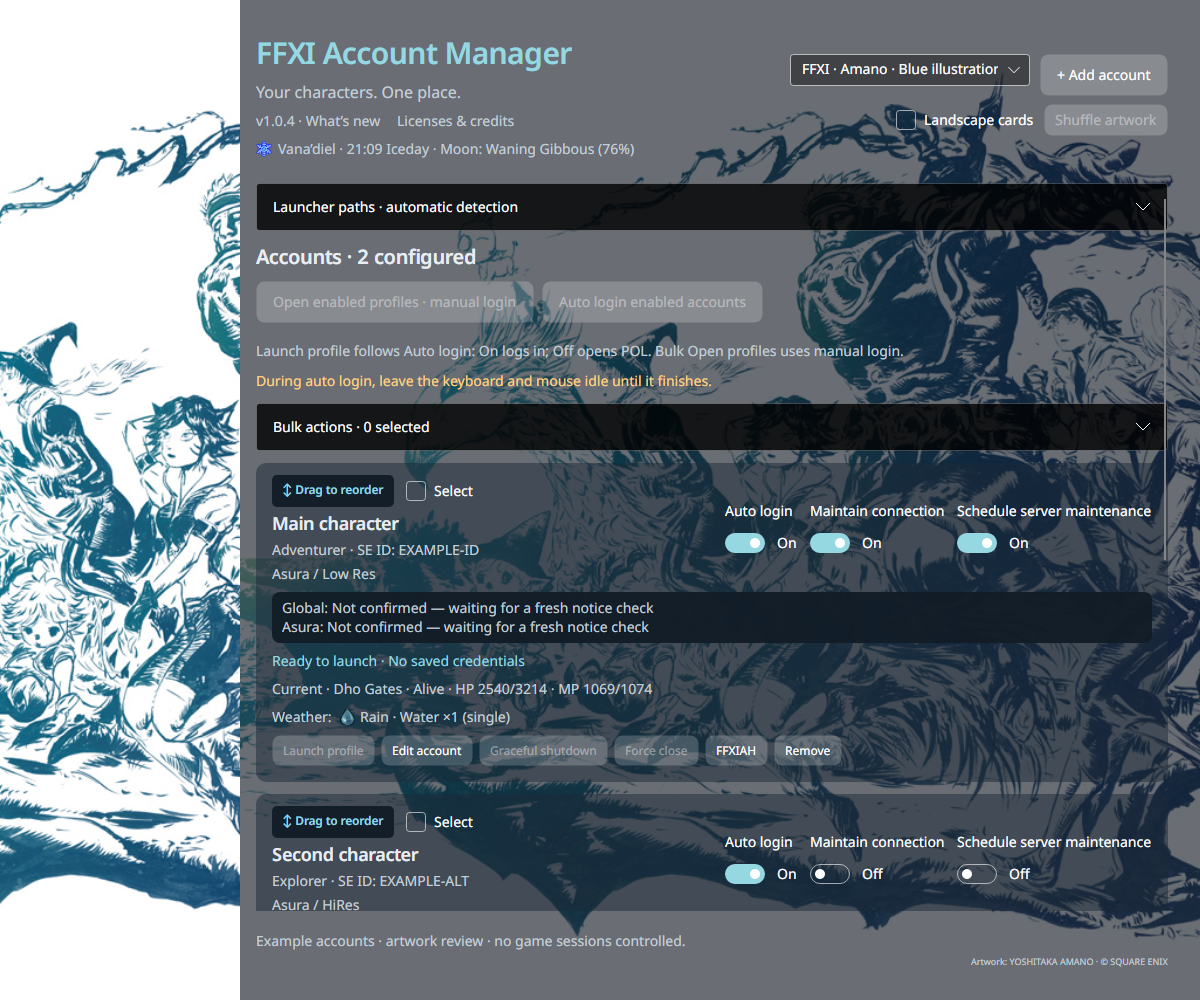
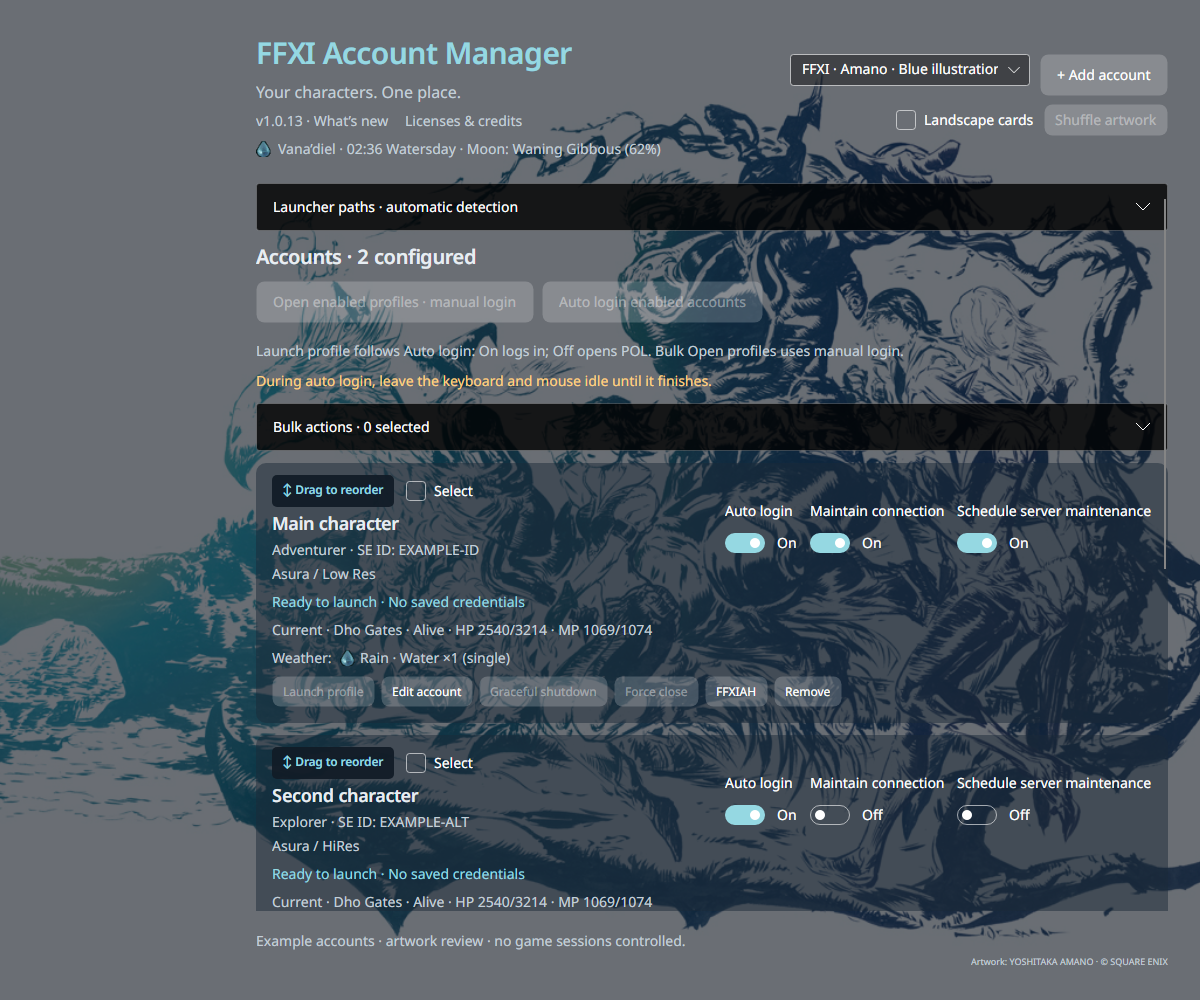
Join World Map, Zilart and Blue Illustration into continuous backgrounds

diff --git a/src/FFXILauncher.Desktop/ThemeCatalog.cs b/src/FFXILauncher.Desktop/ThemeCatalog.cs
@@ -5,7 +5,7 @@ using Avalonia.Styling;
 
 namespace FFXILauncher.Desktop;
 
-public sealed record AppTheme(string Id, string Name, string Background, string Surface, string Inset, string Text, string Muted, string Accent, bool Light = false, string? Artwork = null, bool Portrait = false, string? Credit = null, double SideFocus = .5, double BackgroundFocus = .5, string? SideArtwork = null, double BackgroundVerticalFocus = .5)
+public sealed record AppTheme(string Id, string Name, string Background, string Surface, string Inset, string Text, string Muted, string Accent, bool Light = false, string? Artwork = null, bool Portrait = false, string? Credit = null, double SideFocus = .5, double BackgroundFocus = .5, string? SideArtwork = null, double BackgroundVerticalFocus = .5, bool ContinuousArtwork = false)
 {
     public override string ToString() => Name;
 }
@@ -23,9 +23,9 @@ public static class ThemeCatalog
         new("eastern-adoulin", "FFXI · Eastern Adoulin", "#101820", "#E51B2937", "#F0111C27", "#E7EDF2", "#C3CFD8", "#97C9D6", Artwork: "EasternAdoulin.jpg", Portrait: false),
         new("ulbuka", "FFXI · East Ulbuka", "#101820", "#E51B2937", "#F0111C27", "#E7EDF2", "#C3CFD8", "#98CAB5", Artwork: "Ulbuka.jpg", Portrait: false),
         new("amano-aht", "FFXI · Treasures of Aht Urhgan", "#101820", "#E51B2937", "#F0111C27", "#E7EDF2", "#C3CFD8", "#D5C59D", Artwork: "Amano5.jpg", Portrait: true, Credit: "©2006 YOSHITAKA AMANO · © SQUARE ENIX"),
-        new("amano-blue", "FFXI · Amano · Blue illustration", "#101820", "#E51B2937", "#F0111C27", "#E7EDF2", "#C3CFD8", "#95D8E2", Artwork: "Amano13.jpg", Portrait: false, Credit: "Artwork: YOSHITAKA AMANO · © SQUARE ENIX"),
-        new("amano-map", "FFXI · Amano · World map", "#101820", "#E51B2937", "#F0111C27", "#E7EDF2", "#C3CFD8", "#DEBE76", Artwork: "Amano0.jpg", Portrait: false, Credit: "Artwork: YOSHITAKA AMANO · © SQUARE ENIX"),
-        new("amano-zilart", "FFXI · Amano · Zilart", "#101820", "#E51B2937", "#F0111C27", "#E7EDF2", "#C3CFD8", "#A1CDE8", Artwork: "Amano1.jpg", Portrait: false, Credit: "Artwork: YOSHITAKA AMANO · © SQUARE ENIX"),
+        new("amano-blue", "FFXI · Amano · Blue illustration", "#101820", "#E51B2937", "#F0111C27", "#E7EDF2", "#C3CFD8", "#95D8E2", Artwork: "Amano13.jpg", Portrait: false, Credit: "Artwork: YOSHITAKA AMANO · © SQUARE ENIX", BackgroundFocus: .62, ContinuousArtwork: true),
+        new("amano-map", "FFXI · Amano · World map", "#101820", "#E51B2937", "#F0111C27", "#E7EDF2", "#C3CFD8", "#DEBE76", Artwork: "WorldMapFull.jpg", Portrait: false, Credit: "Artwork: YOSHITAKA AMANO · © SQUARE ENIX", BackgroundFocus: .52, ContinuousArtwork: true),
+        new("amano-zilart", "FFXI · Amano · Zilart", "#101820", "#E51B2937", "#F0111C27", "#E7EDF2", "#C3CFD8", "#A1CDE8", Artwork: "ZilartFull.jpg", Portrait: false, Credit: "Artwork: YOSHITAKA AMANO · © SQUARE ENIX", BackgroundFocus: .52, ContinuousArtwork: true),
         new("arita-crystal", "FFXI · Arita · Crystal illustration", "#101820", "#E51B2937", "#F0111C27", "#E7EDF2", "#C3CFD8", "#9FD9D4", Artwork: "Arita0.jpg", Portrait: false),
         new("ffxi-original", "FFXI · Original FFXI", "#101820", "#E51B2937", "#F0111C27", "#E7EDF2", "#C3CFD8", "#8CD4E3", Artwork: "Illustration0.jpg", Portrait: true, SideArtwork: "Anniversary2.jpg", SideFocus: .40, Credit: "Artwork: JUN SUEMI / SQUARE ENIX · © SQUARE ENIX"),
         new("abyssea", "FFXI · Abyssea", "#101820", "#E51B2937", "#F0111C27", "#E7EDF2", "#C3CFD8", "#BDA5D9", Artwork: "Illustration6.jpg", Portrait: true, SideArtwork: "Maw.jpg", Credit: "Artwork: JUN SUEMI / SQUARE ENIX · © SQUARE ENIX"),

diff --git a/tests/FFXILauncher.Desktop.Smoke/Program.cs b/tests/FFXILauncher.Desktop.Smoke/Program.cs
@@ -440,6 +440,13 @@ foreach (var theme in ThemeCatalog.All)
     themePicker.SelectedItem = theme;
     Dispatcher.UIThread.RunJobs();
     if (theme.Artwork != null && (!configured.FindControl<Border>("PortraitFrame")!.IsVisible || configured.FindControl<Image>("PortraitArtwork")!.Source is not CroppedBitmap || configured.FindControl<Image>("BackgroundArtwork")!.Source is not CroppedBitmap)) throw new Exception("Every artwork theme needs aspect-preserving expanded crops.");
+    if (theme.ContinuousArtwork)
+    {
+        var leftCrop = (CroppedBitmap)configured.FindControl<Image>("PortraitArtwork")!.Source!;
+        var rightCrop = (CroppedBitmap)configured.FindControl<Image>("BackgroundArtwork")!.Source!;
+        if (!ReferenceEquals(leftCrop.Source, rightCrop.Source) || leftCrop.SourceRect.Right != rightCrop.SourceRect.X || leftCrop.SourceRect.Y != rightCrop.SourceRect.Y || leftCrop.SourceRect.Height != rightCrop.SourceRect.Height) throw new Exception("Continuous artwork panels must share one image and adjoining source rectangles.");
+        if (configured.FindControl<Image>("PortraitArtwork")!.Opacity != configured.FindControl<Image>("BackgroundArtwork")!.Opacity || !configured.FindControl<Border>("PortraitShade")!.IsVisible) throw new Exception("Continuous artwork must use matching brightness across the seam.");
+    }
     if (theme.SideArtwork != null)
     {
         var sideCrop = (CroppedBitmap)configured.FindControl<Image>("PortraitArtwork")!.Source!;
@@ -449,6 +456,20 @@ foreach (var theme in ThemeCatalog.All)
     if (new ConfigurationStore(directory).Load().Theme != theme.Id) throw new Exception("Selected theme did not persist.");
     if ((configured.FindControl<Image>("BackgroundArtwork")!.Source != null) != (theme.Artwork != null)) throw new Exception("Artwork theme did not load: " + theme.Id + " · " + configured.FindControl<TextBlock>("Activity")!.Text);
 }
+foreach (var id in new[] { "amano-map", "amano-zilart", "amano-blue" })
+{
+    themePicker.SelectedItem = ThemeCatalog.Resolve(id);
+    foreach (var width in new[] { 900d, 1050d, 1440d })
+    {
+        configured.Width = width;
+        Dispatcher.UIThread.RunJobs();
+        var left = configured.FindControl<Image>("PortraitArtwork")!.Source as CroppedBitmap;
+        var right = (CroppedBitmap)configured.FindControl<Image>("BackgroundArtwork")!.Source!;
+        if (width < 1050 ? left != null : left == null || left.SourceRect.Right != right.SourceRect.X) throw new Exception("Continuous artwork must remain joined through expanded and narrow layouts.");
+    }
+}
+configured.Width = 1120;
+Dispatcher.UIThread.RunJobs();
 themePicker.SelectedItem = ThemeCatalog.Resolve("abyssea");
 Dispatcher.UIThread.RunJobs();
 var savedArtwork = new ConfigurationStore(directory).Load().CharacterArtwork!;

diff --git a/src/FFXILauncher.Desktop/MainWindow.axaml.cs b/src/FFXILauncher.Desktop/MainWindow.axaml.cs
@@ -204,6 +204,8 @@ public sealed partial class MainWindow : Window
         BackgroundArtwork.Source = nextArtwork;
         PortraitArtwork.Source = nextArtwork;
         BackgroundArtwork.Opacity = .85;
+        PortraitArtwork.Opacity = theme.ContinuousArtwork ? .85 : 1;
+        PortraitShade.IsVisible = theme.ContinuousArtwork;
         themeArtwork?.Dispose();
         sideArtwork?.Dispose();
         sideArtwork = nextSideArtwork;
@@ -222,9 +224,28 @@ public sealed partial class MainWindow : Window
         MainContentGrid.Margin = new Thickness(portrait ? 256 : 32, 32, 32, 32);
         if (themeArtwork != null && Bounds.Height > 0)
         {
-            PortraitArtwork.Source = CropArtwork(sideArtwork ?? themeArtwork, 240 / Bounds.Height, theme.SideFocus);
-            BackgroundArtwork.Source = CropArtwork(themeArtwork, Math.Max(1, Bounds.Width - (portrait ? 240 : 0)) / Bounds.Height, theme.BackgroundFocus, theme.BackgroundVerticalFocus);
+            if (theme.ContinuousArtwork)
+                SetContinuousArtwork(themeArtwork, portrait ? 240 : 0, theme.BackgroundFocus, theme.BackgroundVerticalFocus);
+            else
+            {
+                PortraitArtwork.Source = CropArtwork(sideArtwork ?? themeArtwork, 240 / Bounds.Height, theme.SideFocus);
+                BackgroundArtwork.Source = CropArtwork(themeArtwork, Math.Max(1, Bounds.Width - (portrait ? 240 : 0)) / Bounds.Height, theme.BackgroundFocus, theme.BackgroundVerticalFocus);
+            }
         }
+    }
+    private void SetContinuousArtwork(Bitmap source, double sideWidth, double focus, double verticalFocus)
+    {
+        var size = source.PixelSize;
+        var ratio = Bounds.Width / Bounds.Height;
+        var width = Math.Min(size.Width, Math.Max(1, (int)Math.Round(size.Height * ratio)));
+        var height = Math.Min(size.Height, Math.Max(1, (int)Math.Round(size.Width / ratio)));
+        var split = (int)Math.Round(width * sideWidth / Bounds.Width);
+        // One viewport and shared scale. Center the subject in the main area,
+        // then divide the source into adjacent rectangles without repeating pixels.
+        var x = (int)Math.Clamp(size.Width * focus - (width + split) / 2d, 0, size.Width - width);
+        var y = (int)Math.Clamp(size.Height * verticalFocus - height / 2d, 0, size.Height - height);
+        PortraitArtwork.Source = split == 0 ? null : new CroppedBitmap { Source = source, SourceRect = new PixelRect(x, y, split, height) };
+        BackgroundArtwork.Source = new CroppedBitmap { Source = source, SourceRect = new PixelRect(x + split, y, width - split, height) };
     }
     private static CroppedBitmap CropArtwork(Bitmap source, double ratio, double focus, double verticalFocus = .5)
     {

diff --git a/README.md b/README.md
@@ -10,7 +10,9 @@ These screenshots show the actual application UI with example accounts and no sa
 
 ![Account dashboard with an FFXI artwork theme](docs/images/dashboard.png)
 
-Choose one of four dark UI themes or 12 artwork themes, including Abyssea. Expanded windows show a tall cropped art panel with a background behind the accounts; Amano · Autumn, Abyssea, Promyvion and Original FFXI pair two different images. Disable Landscape cards for more translucent account cards; enable it for prominent landscape images with minimal shading. Shuffle uses every image before repeating and avoids duplicate visible cards while enough images are available. Images keep their aspect ratio. Drag the handle on each card to reorder accounts. **Auto login** controls whether a character's Launch profile button completes login. **Maintain connection** enables recovery; **Schedule server maintenance** plans downtime around applicable notices.
+Choose one of four dark UI themes or 12 artwork themes, including Abyssea. Expanded windows show a tall cropped art panel with a background behind the accounts; Amano · Autumn, Abyssea, Promyvion, and Original FFXI pair two different images. Disable Landscape cards for more translucent account cards; enable it for prominent landscape images with minimal shading. Shuffle uses every image before repeating and avoids duplicate visible cards while enough images are available. Images keep their aspect ratio. Drag the handle on each card to reorder accounts. **Auto login** controls whether a character's Launch profile button completes login. **Maintain connection** enables recovery; **Schedule server maintenance** plans downtime around applicable notices.
+
+World Map, Zilart and Blue Illustration use a continuous panoramic background: the left panel reveals the adjoining artwork rather than repeating it.
 
 [See every theme at full size](docs/themes/README.md), including the narrow-window Abyssea view.
 

diff --git a/docs/themes/README.md b/docs/themes/README.md
@@ -1,6 +1,8 @@
-# Theme previews — v1.0.12
+# Theme previews — v1.0.13
 
-Actual application renders with example accounts. No real credentials or game sessions are used. Landscape cards are off to show the translucent surfaces. Expanded artwork views use aspect-preserving crops in the left panel and right background; Amano · Autumn, Abyssea, Promyvion and Original FFXI pair two distinct images.
+Actual application renders with example accounts. No real credentials or game sessions are used. Landscape cards are off to show the translucent surfaces. Expanded artwork views use aspect-preserving crops in the left panel and right background; Amano · Autumn, Abyssea, Promyvion, and Original FFXI pair two distinct images.
+
+World Map, Zilart and Blue Illustration use a continuous panoramic background: the left panel reveals the adjoining artwork rather than repeating it.
 
 ## Artwork themes
 

diff --git a/src/FFXILauncher.Desktop/Assets/Themes/SOURCES.md b/src/FFXILauncher.Desktop/Assets/Themes/SOURCES.md
@@ -1,6 +1,6 @@
 # Artwork sources
 
-Original unmodified artwork from Square Enix's WE ARE VANA'DIEL gallery.
+Original unmodified artwork from Square Enix's WE ARE VANA'DIEL gallery, plus the user-selected full map and Zilart images linked below.
 https://we-are-vanadiel.finalfantasyxi.com/gallery/
 
 URL root: https://we-are-vanadiel.finalfantasyxi.com/assets/images/gallery/season/
@@ -23,6 +23,9 @@ URL root: https://we-are-vanadiel.finalfantasyxi.com/assets/images/gallery/seaso
 | Anniversary2.jpg | 6/vol/1/2.jpg |
 | Illustration0.jpg | 2/vol/1/0.jpg |
 | Illustration6.jpg | 2/vol/1/6.jpg |
+
+WorldMapFull.jpg: https://www.espritduo.com/Amano/FF11/Vana'diel.jpg
+ZilartFull.jpg: https://www.espritduo.com/Amano/FF11/Rise%20of%20the%20Zilart%20Cover%20Art.jpg
 
 © SQUARE ENIX CO., LTD. All Rights Reserved.
 Amano5: Treasures of Aht Urhgan Artwork, ©2006 YOSHITAKA AMANO.

diff --git a/CHANGELOG.md b/CHANGELOG.md
@@ -1,5 +1,10 @@
 # Release notes
 
+## 1.0.13
+
+- World Map and Zilart now use the selected full artwork, centered on the female figure and chocobo rider in the main area.
+- World Map, Zilart and Blue Illustration now form one continuous image across the left panel and right background, with adjoining crops and matching shading through resizing.
+
 ## 1.0.12
 
 - Original FFXI now pairs the approved anniversary character illustration on the left with its original artwork on the right.
